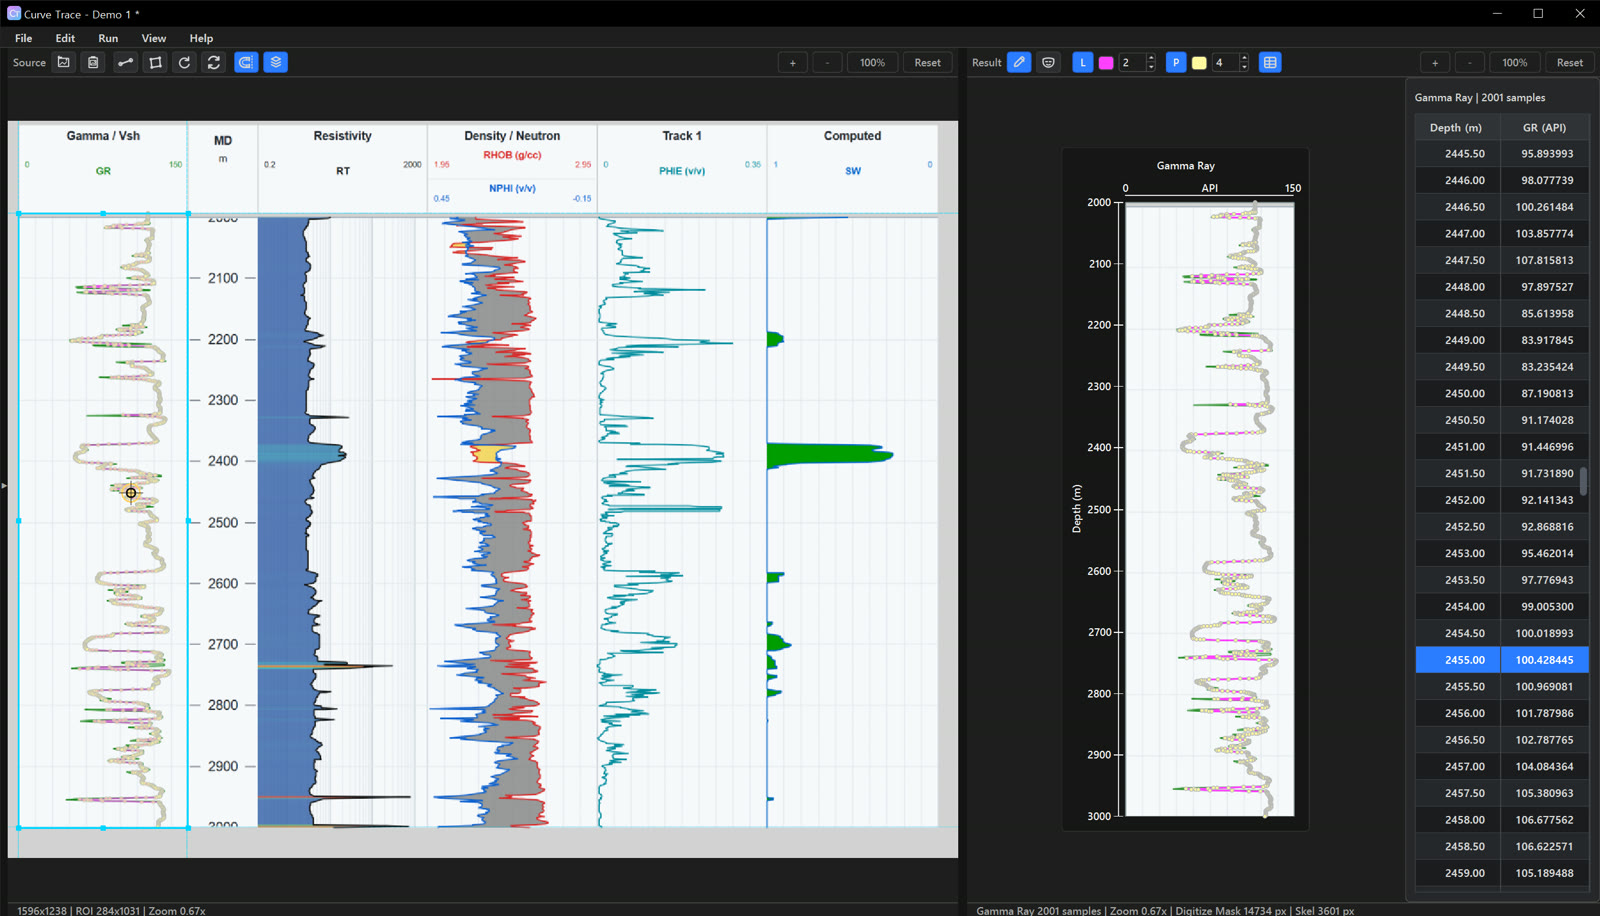
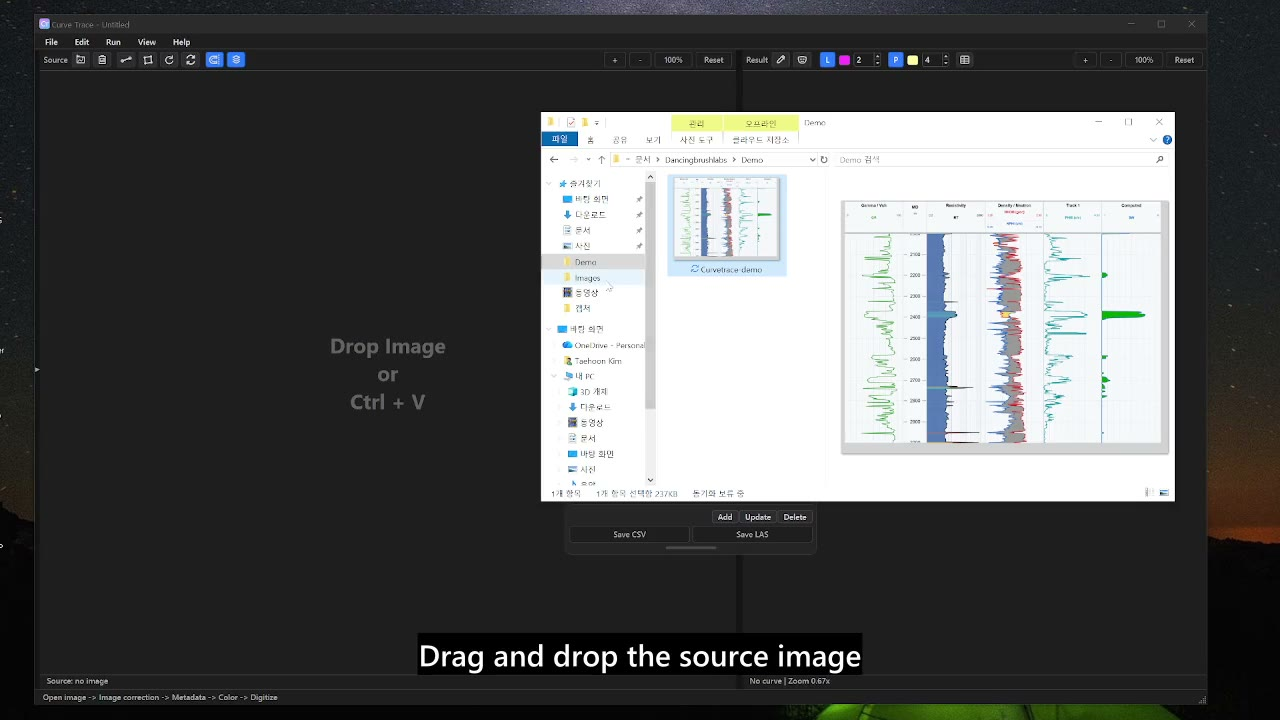
Align demo poster with video

diff --git a/index.html b/index.html
@@ -112,7 +112,7 @@
             muted
             playsinline
             preload="metadata"
-            poster="assets/curvetrace-workflow-poster.jpg"
+            poster="assets/curvetrace-workflow-poster.jpg?v=2"
             aria-label="CurveTrace digitizing workflow demonstration"
           >
             <source src="assets/curvetrace-workflow-demo.mp4?v=5" type="video/mp4" />